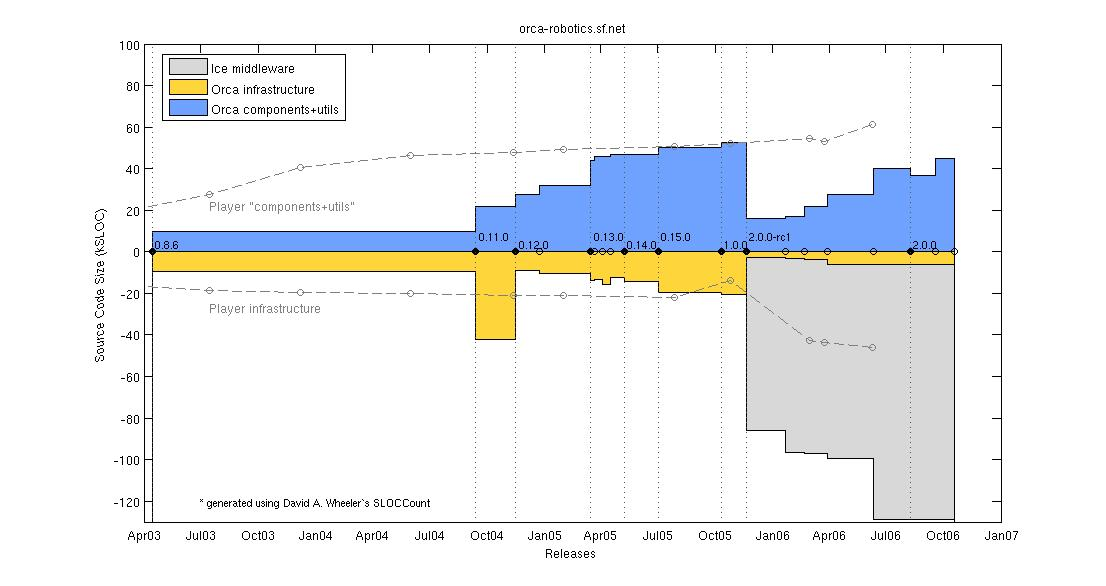
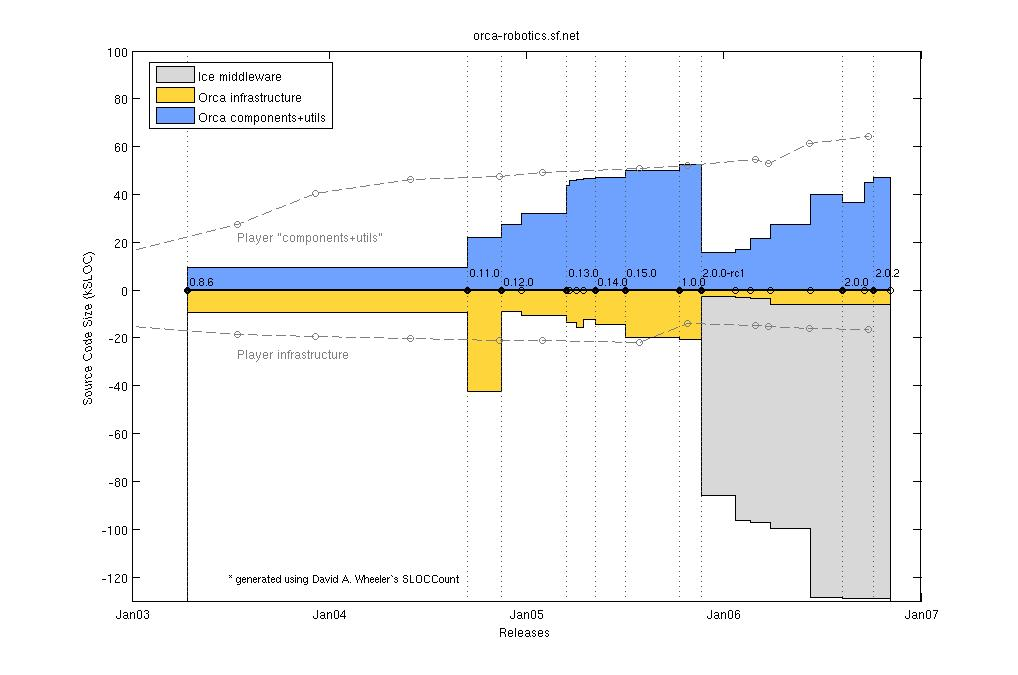
install from debian package in now default in docco.
git-svn-id: https://orca-robotics.svn.sf.net/svnroot/orca-robotics/orca/trunk@1193 534d5172-be3c-0410-9a3e-ccaa6372a113

diff --git a/scripts/matlab/sloccount/slocs.m b/scripts/matlab/sloccount/slocs.m
@@ -53,10 +53,10 @@ Sorca = [ ...
 2006    6   11  0   Sice310 4985+1116   19999+24867-4985; % 2.0.0-rc5
 2006    8   9   1   Sice310 5086+1116   19979+21711-5086; % 2.0.0
 2006    9   18  0   Sice310 5251+1094   19317+30847-5251  % 2.0.1
-2006    10  24  1   Sice310 5251+1094   20049+31180-5251  % 2.0.1+
+2006    10  5   1   Sice310 5248+1094   20384+31798-5248  % 2.0.2
 ];
 Vorca ={'0.8.6', '0.11.0', '0.12.0', '0.12.1', '0.13.0', '0.13.1', '0.13.2', '0.13.3', '0.14.0', '0.15.0', '1.0.0', ...
-    '2.0.0-rc1', '2.0.0-rc2', '2.0.0-rc3', '2.0.0-rc4', '2.0.0-rc5', '2.0.0', '2.0.1', '2.0.1+' }';
+    '2.0.0-rc1', '2.0.0-rc2', '2.0.0-rc3', '2.0.0-rc4', '2.0.0-rc5', '2.0.0', '2.0.1', '2.0.2' }';
 
 % add a dummy release just for display
 Sorca(end+1,:) = Sorca(end,:);
@@ -83,13 +83,14 @@ Splayer = [
 2004    11 12   1  0    (50758-43190)+13545     43190+4479;    % 1.6
 2005    1  31   0  0    (52069-44517)+13576     44517+4662;    % 1.6.2
 2005    7  28   0  0    (53348-45686)+14300     45686+5188;    % 1.6.5
-% BASE: (libplayercore-./bindings/java/net) + client_libs + (libplayertcp-./bindings/java)
+% BASE: (libplayercore-./bindings) + client_libs + (libplayertcp-./bindings)
 % note: libplayerxdr is autogenerated
 % COMP: server + utils
 2005    10 25   0  0    (4866-0)+7560+(1391-0)  46474+5725      % 2.0pre7
-2006    2  28   1  0    (52739-20157)+8513+(2740-1291)  48764+5940 % 2.0.0
-2006    3  25   1  0    (53957-20592)+8909+(2740-1291)  47069+5964 % 2.0.1
-2006    6  9    1  0    (56741-21756)+9575+(2767-1319)  51983+9438 % 2.0.2
+2006    2  28   1  0    (52739-47749)+8513+(2740-1291)  48764+5940 % 2.0.0
+2006    3  25   1  0    (53957-48912)+8909+(2740-1291)  47069+5964 % 2.0.1
+2006    6  9    1  0    (56741-51546)+9575+(2767-1319)  51983+9438 % 2.0.2
+2006    9  26   1  0    (56741-51546)+9880+(2767-1319)  54613+9475 % 2.0.3
 ];
 Tplayer = datenum(Splayer(:,1),Splayer(:,2),Splayer(:,3));
 
